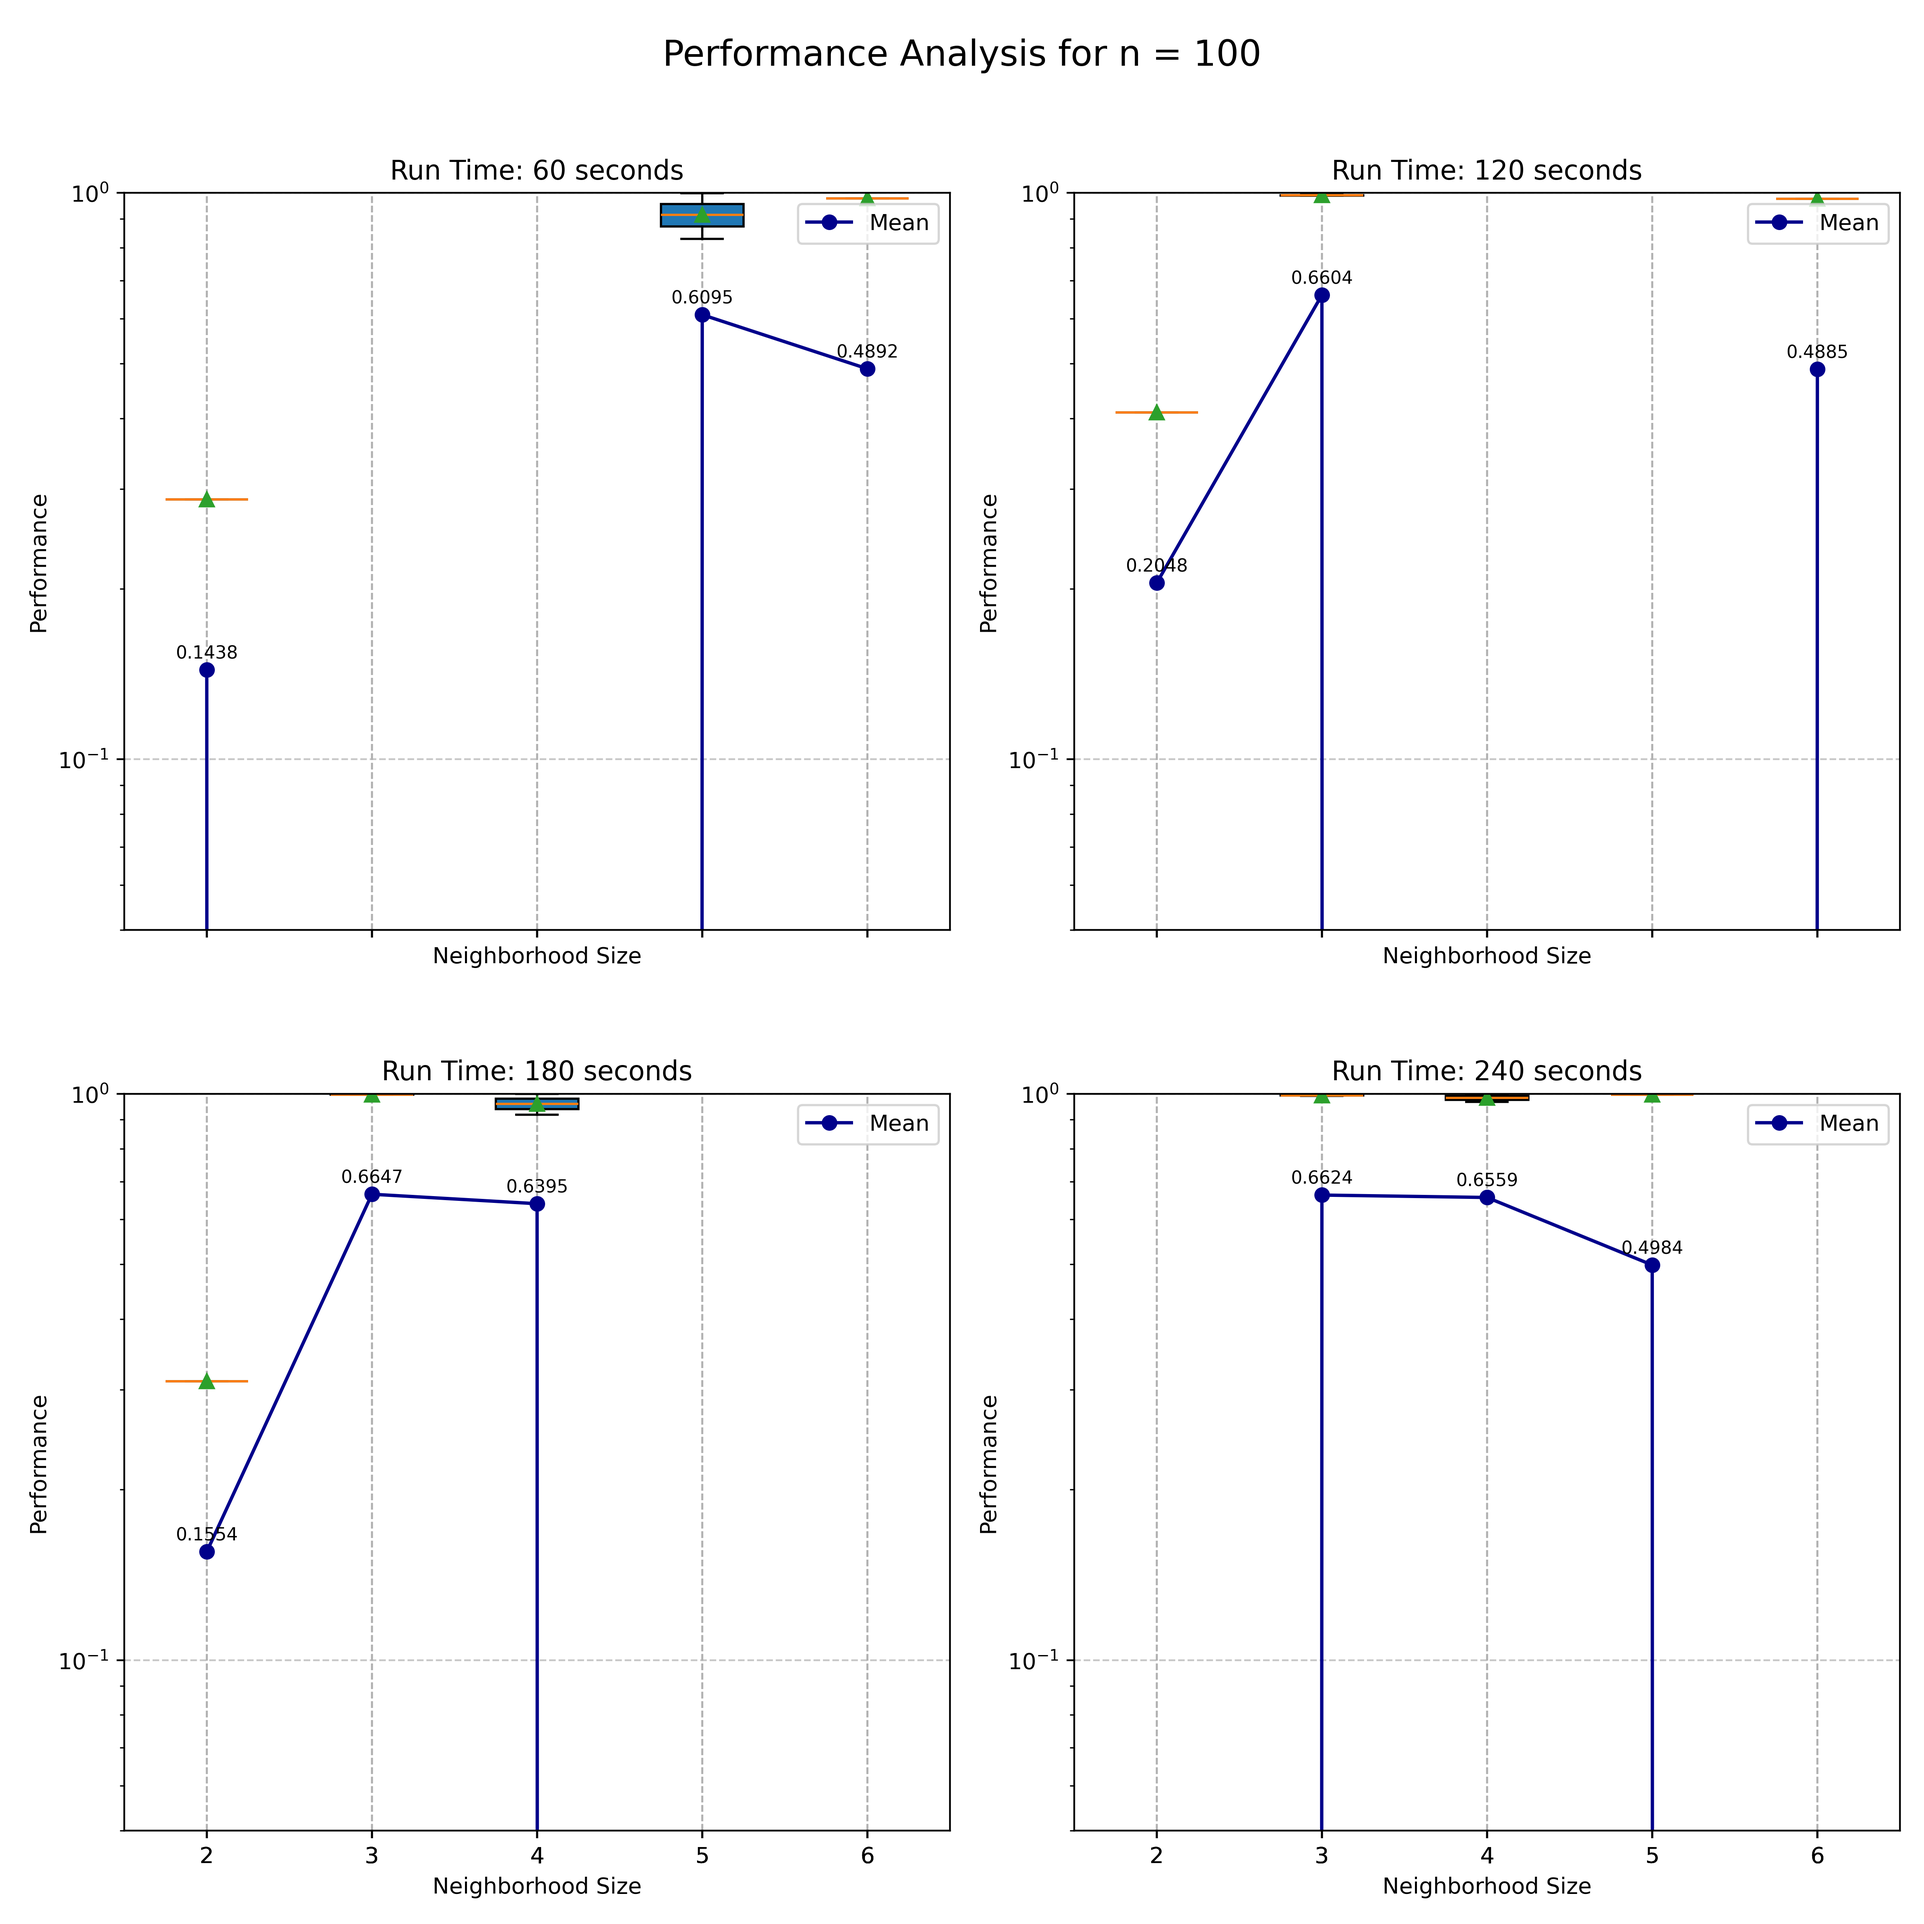
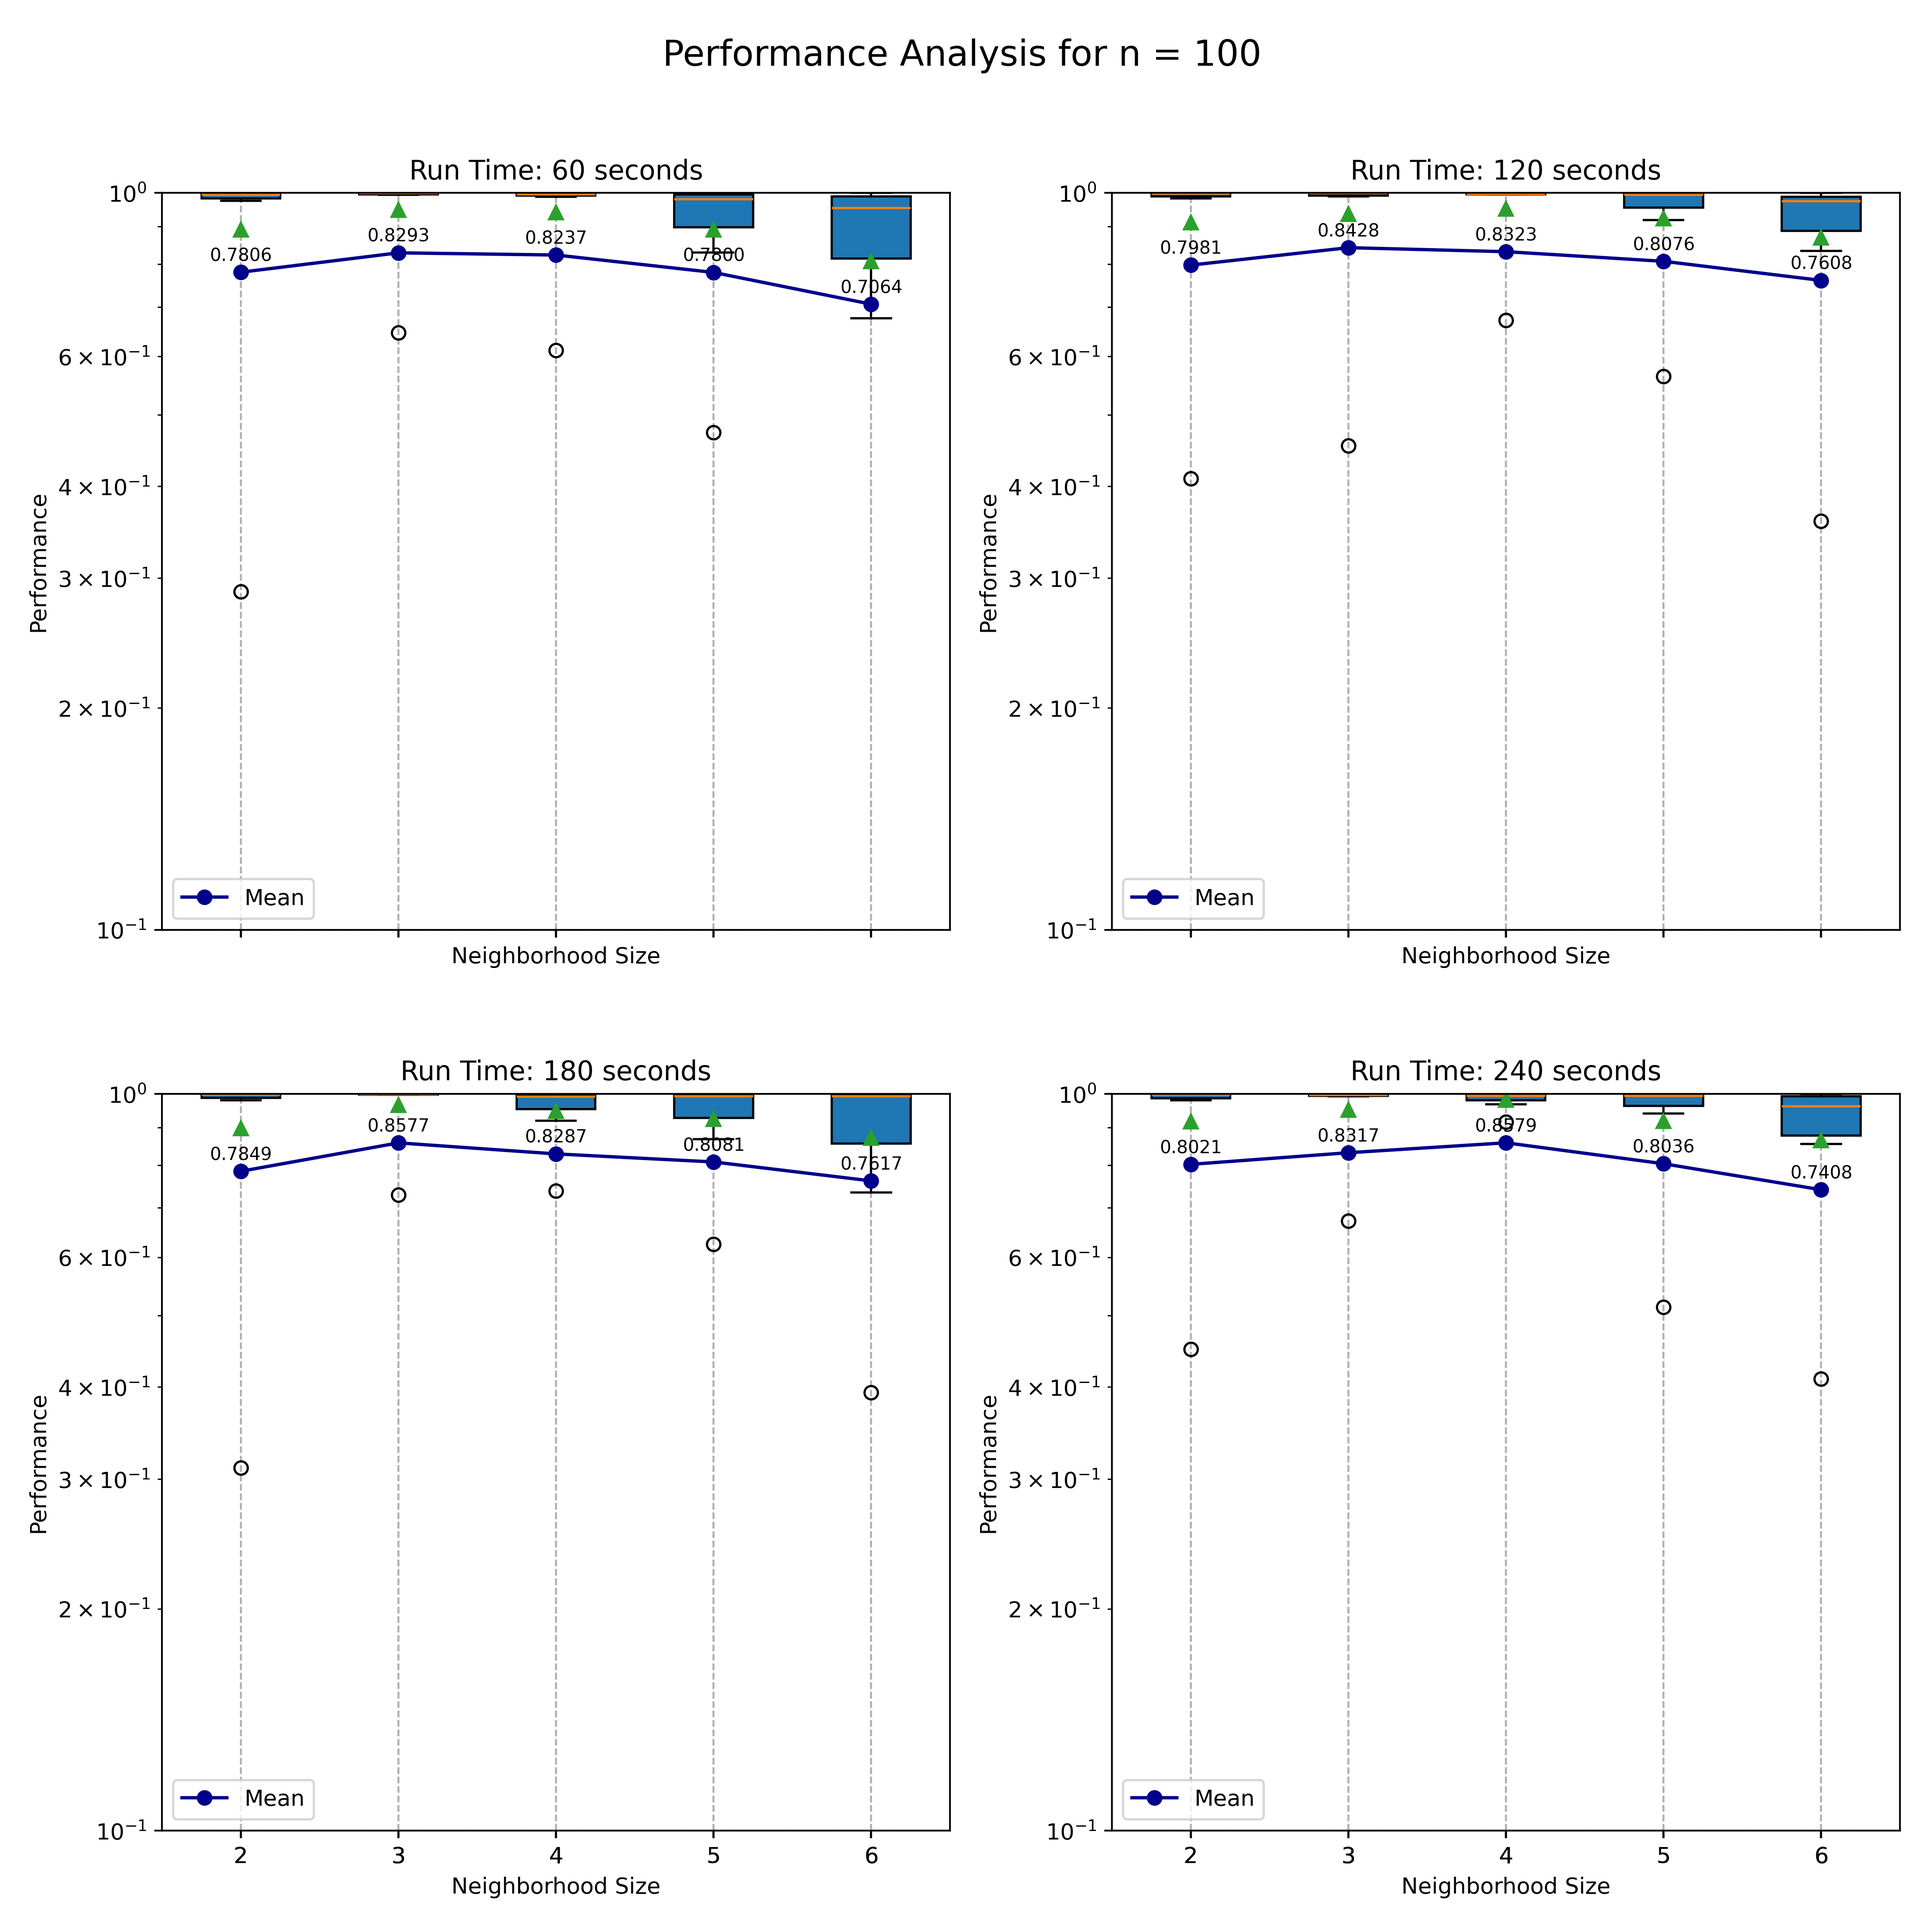
analysis drils

diff --git a/gen_graphics.py b/gen_graphics.py
@@ -1,6 +1,7 @@
 import os
 import json
 import matplotlib.pyplot as plt
+import numpy as np
 from itertools import product
 
 
@@ -14,7 +15,9 @@ def gen_graphics(path, n):
 
     for (run_time, neighborhood_size) in product(times_to_run, neighborhood_sizes):
         info.setdefault(run_time, {})
-        info[run_time][neighborhood_size] = []
+        info[run_time].setdefault(neighborhood_size, {})
+        info[run_time][neighborhood_size]["performances"] = []
+        info[run_time][neighborhood_size]["norm_relative_errors"] = []
 
 
     # Leer los archivos JSON y organizar los datos
@@ -22,9 +25,9 @@ def gen_graphics(path, n):
         file_dict = json.load(open(os.path.join(path, file)))
         run_time = file_dict["time_to_run"]
         neighborhood_size = file_dict["neighborhood_size"]
-        performance = file_dict["performance"]
 
-        info[run_time][neighborhood_size].append(performance)
+        if file_dict["real_optimal_value"] > 1: 
+            info[run_time][neighborhood_size]["performances"].append(file_dict["real_optimal_value"]/file_dict["best_value"])
 
 
     rows = (len(info) + 1) // 2  # Número de filas necesarias para 2 columnas
@@ -40,7 +43,7 @@ def gen_graphics(path, n):
     for ax, (run_time, neighborhood_data) in zip(axes, sorted(info.items())):
         neighborhood_sizes = sorted(neighborhood_data.keys())
         performances = [
-            [p for p in neighborhood_data[size] if p > 0] for size in neighborhood_sizes
+            [p for p in neighborhood_data[size]["performances"]] for size in neighborhood_sizes
         ]
 
         # Crear un boxplot para cada tamaño de vecindario
@@ -54,8 +57,8 @@ def gen_graphics(path, n):
         ax.set_xlabel("Neighborhood Size")
         ax.set_ylabel("Performance")
 
-        ax.set_ylim(0.75, 1)  if n == 40 else ax.set_ylim(0.05, 1)
         ax.set_yscale("log")
+        ax.set_ylim(bottom=(0.7 if n == 40 else 0.1), top=1)
 
         ax.grid(True, linestyle="--", alpha=0.7)
 
@@ -96,6 +99,7 @@ if __name__ == "__main__":
     parser.add_argument("--n", type=int)
     args = parser.parse_args()
     n = args.n
+    # n = 40
     
     path = "./results/" + str(n)  +"/"  # Ruta a los archivos JSON
     gen_graphics(path, n)

diff --git a/tests.py b/tests.py
@@ -23,7 +23,7 @@ def analysis(prob, instance, neighborhood_size, time_to_run, real_optimal_value,
     data["best_value"] = pi_value
     data["best_permutation"] = pi
     data["distance_to_optimal_value"] = pi_value - real_optimal_value
-    data["performance"] = real_optimal_value / pi_value
+    # data["performance"] = real_optimal_value / pi_value if (real_optimal_value != 0 and pi_value != 0) else (real_optimal_value + 1) / (pi_value + 1)
 
 
     json.dump(data, open(output_file, "w"), indent=4)
